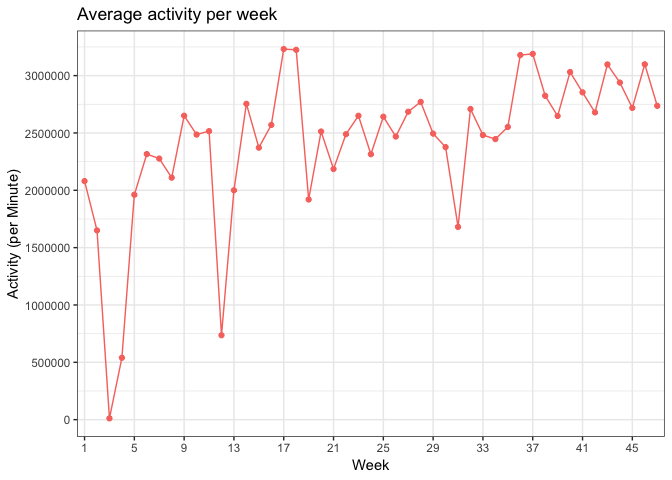
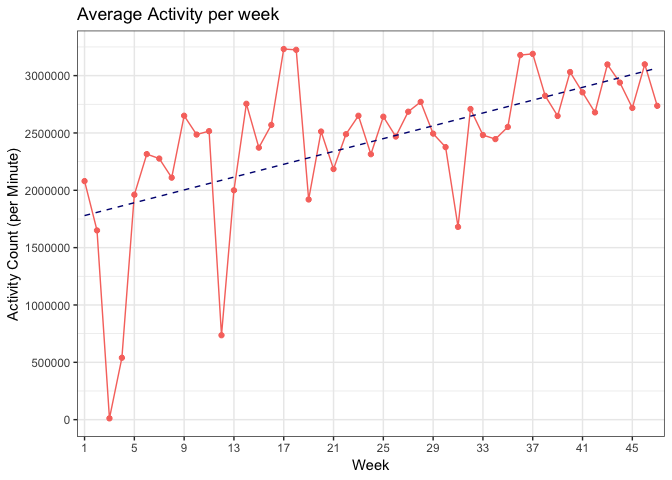
adding comment and edits

Changed region(s): [[0.2188, 0.0, 0.4062, 0.0625], [0.0, 0.3125, 0.0312, 0.6875]]

diff --git a/p8105_mtp_tt2714.md b/p8105_mtp_tt2714.md
@@ -3,6 +3,8 @@ p8105\_mtp\_tt2714
 Tiffany Tu
 10/18/2018
 
+### Initial data cleaning and exploring…
+
 ``` r
 data = read_csv(file = "data/p8105_mtp_data.csv") 
 clean_data = data %>% 
@@ -13,7 +15,15 @@ clean_data = data %>%
          day = forcats::fct_relevel(day, c('Monday', 'Tuesday', 'Wednesday', 'Thursday', 'Friday', 'Saturday', 'Sunday'))) 
 ```
 
-## This dataset observes 47 weeks of recorded physical activity.
+This dataset observes physical activity by minutes through a 24-hour
+period for 47 weeks. After cleaning the dataset, we have 4 variables:
+week, day, time, activity, for 473760 observations. We have activity
+counts for each time point in minutes and we want to explore whether the
+individual became more active over time. The average activity count for
+the whole duration of the study is approximately 240. The maximum
+activity count occured on a Sunday at hour 16.
+
+### Activity distribution across time and week
 
 ``` r
 activity_day = clean_data %>% 
@@ -21,9 +31,10 @@ activity_day = clean_data %>%
   summarise_all(funs(sum)) 
 
 dist_dayplot = ggplot(activity_day, aes(x = day, y = activity)) + 
-  geom_violin(adjust = 0.8, aes(fill = day)) + geom_boxplot(width = 0.1) + 
-  labs(title = "Activity distribution on each day", x = "day of the week", y = "Activity (per Minute)") +
-  theme_bw() + scale_y_continuous(labels = scales::comma)
+  geom_violin(adjust = 0.8, aes(fill = day)) + 
+  geom_boxplot(width = 0.1) + labs(x = "Day of the Week", y = "") + 
+  theme_bw() + scale_y_continuous(labels = scales::comma) + 
+  stat_summary(fun.y = median, geom = "line", aes(group = 1))
 ```
 
 ``` r
@@ -35,26 +46,55 @@ activity_time = clean_data %>%
 dist_timeplot = ggplot(activity_time, aes(x = time, y = activity, color = day)) + 
   geom_smooth(method = "auto") + 
   scale_x_continuous(label = time_formatter, breaks = seq(1, 1440, by = 64)) + 
-  labs(title = "Activity distribution over 24 hour period", x = "Hour of the day", 
-       y = "Activity (per Minute)") + theme_bw()
+  labs(x = "Time (hour)", y = "") + theme_bw() + theme(legend.position = "none")
 ```
 
 ``` r
-grid.arrange(dist_timeplot, dist_dayplot)
+grid.arrange(dist_timeplot, dist_dayplot, top = "Activity Distribution Over 47 Weeks", 
+             left = "Activity Count (per Minute)")
 ```
 
 ![](p8105_mtp_tt2714_files/figure-gfm/unnamed-chunk-2-1.png)<!-- -->
 
+Looking at activity distribution over time, we can confirm that the
+maximum activity point occured most often on Sundays, particularly
+between the hours 9 and 11. During the evening, this individual is least
+active on Sundays and most active on Fridays. From the steady decrease
+in activity counts between hour 21 to 23 and the increase between hour 4
+to 8, we could possibily infer the individual’s resting period. For this
+particular graph, I used `geom_smooth(method = "auto")` so that the
+smoothing method is picked based on the size of the largest group.
+
+The violin plot shows the probability density of activity counts on each
+day of the week. Monday through Thursday we see fatter density widths,
+meaning that there was a higher frequency for each activity point as
+compared to fewer frequency with a greater spread, which we observe for
+Friday through Sunday. The median is highest for Friday, but overall
+closely
+distributed.
+
+### Weekly average activity count
+
 ``` r
 ggplot(clean_data %>% group_by(week) %>% select(-time, -day) %>% summarise_all(funs(sum)),
        aes(x = week, y = activity, group = 1, color = "red")) + 
-  geom_point() + geom_line() + theme_bw() + scale_x_discrete(breaks = seq(1, 47, by = 4)) +
+  geom_point() + geom_line() + scale_x_discrete(breaks = seq(1, 47, by = 4)) +
   scale_y_continuous(breaks = seq(0, 5000000, by = 500000)) + 
-  labs(title = "Average activity per week", x = "Week", y = "Activity (per Minute)") +
-  theme(legend.position = "none")
+  labs(title = "Average Activity per week", x = "Week", y = "Activity Count (per Minute)") +
+  theme_bw() + theme(legend.position = "none") + 
+  geom_smooth(method = "lm", se = FALSE, color = "navyblue", size = 0.5, linetype = 2)
 ```
 
 ![](p8105_mtp_tt2714_files/figure-gfm/average%20activity%20per%20week%20\(1-47\)-1.png)<!-- -->
+
+The average activity count is computed across 24 hours of each day for
+each week. We do see drastic decrease during week 3 and week 12, but the
+individual was able to get back on track and eventually improve his
+activity count by week 47.
+
+### Looking at selected weeks
+
+Let’s take a look at week 1, 15, 30, and 47…
 
 ``` r
 week_analysis = clean_data %>% 
@@ -64,19 +104,19 @@ week_plot1 = ggplot(week_analysis %>% select(-time) %>%
   group_by(day, week) %>% summarise_all(funs(sum)), 
   aes(x = day, y = activity, group = week, color = week)) + 
   geom_point() + geom_line() + theme_bw() + 
-  labs(title = "Average activity per day", x = "Day of the week", y = "Activity (per Minute)") 
+  labs(x = "Day of the week", y = "t") 
 ```
 
 ``` r
 week_plot2 = ggplot(week_analysis %>% select(-day) %>% 
   group_by(time, week) %>% summarise_all(funs(sum)), 
   aes(x = time, y = activity, group = week, color = week)) + geom_smooth(method = "auto") + theme_bw() +
-  labs(title = "Week distribution of activity", x = "Time (hours)", y = "Activity (per Minute)") + 
-  scale_x_continuous(label = time_formatter, breaks = seq(1, 1440, by = 64))
+  labs(x = "Time (hour)", y = "") + 
+  scale_x_continuous(label = time_formatter, breaks = seq(1, 1440, by = 64)) + theme(legend.position = "none")
 ```
 
 ``` r
-grid.arrange(week_plot1, week_plot2)
+grid.arrange(week_plot2, week_plot1, top = "Further Analysis of Average Activity Distribution", left = "Activity Count (per Minute)")
 ```
 
 ![](p8105_mtp_tt2714_files/figure-gfm/unnamed-chunk-3-1.png)<!-- -->
